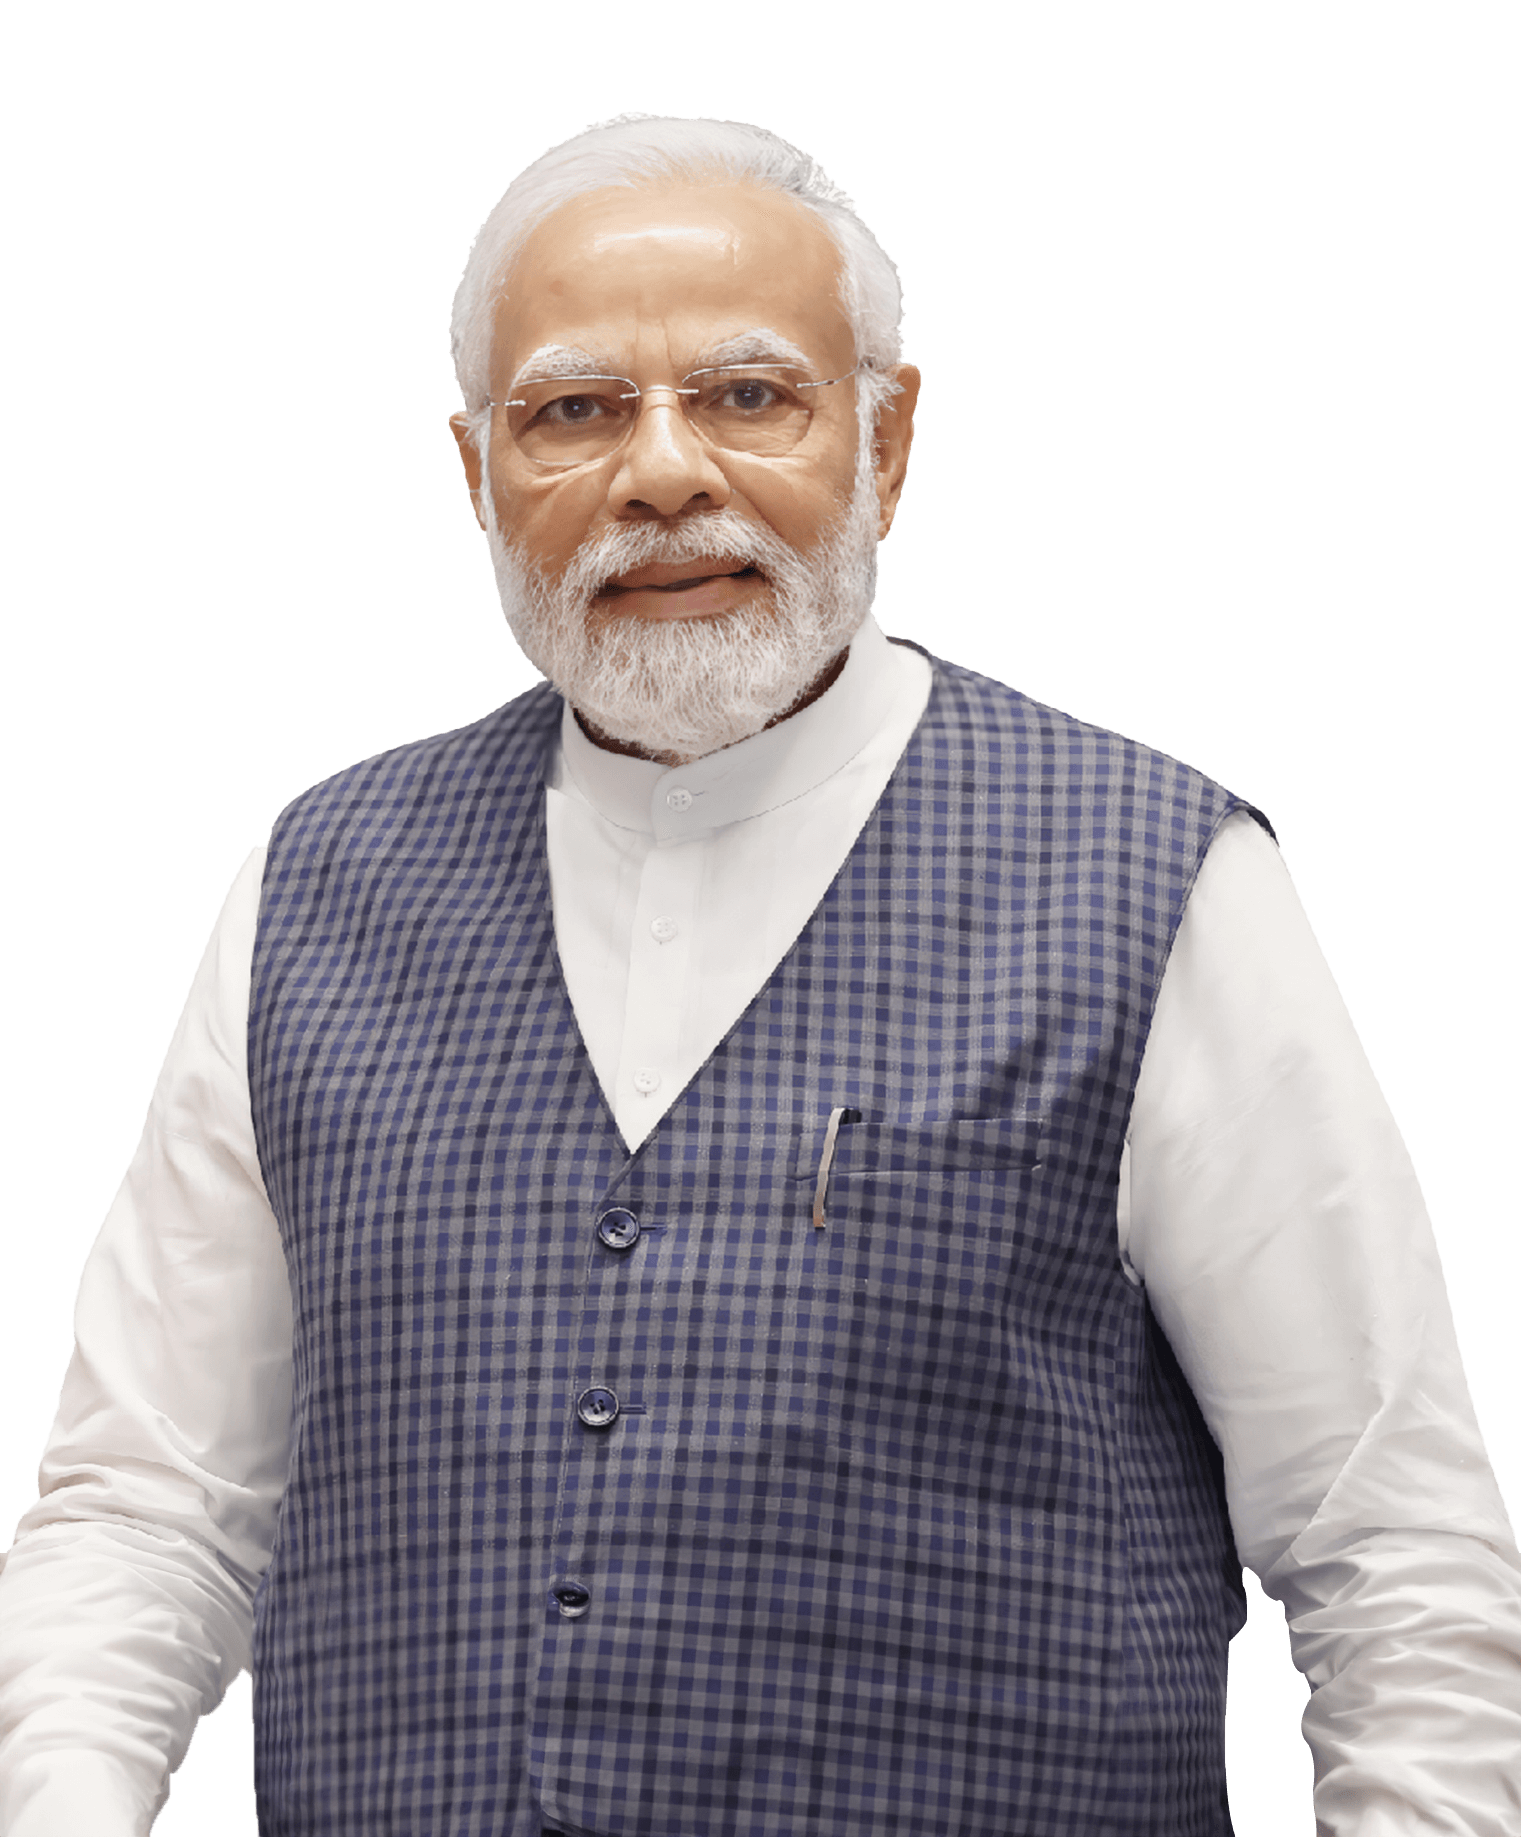
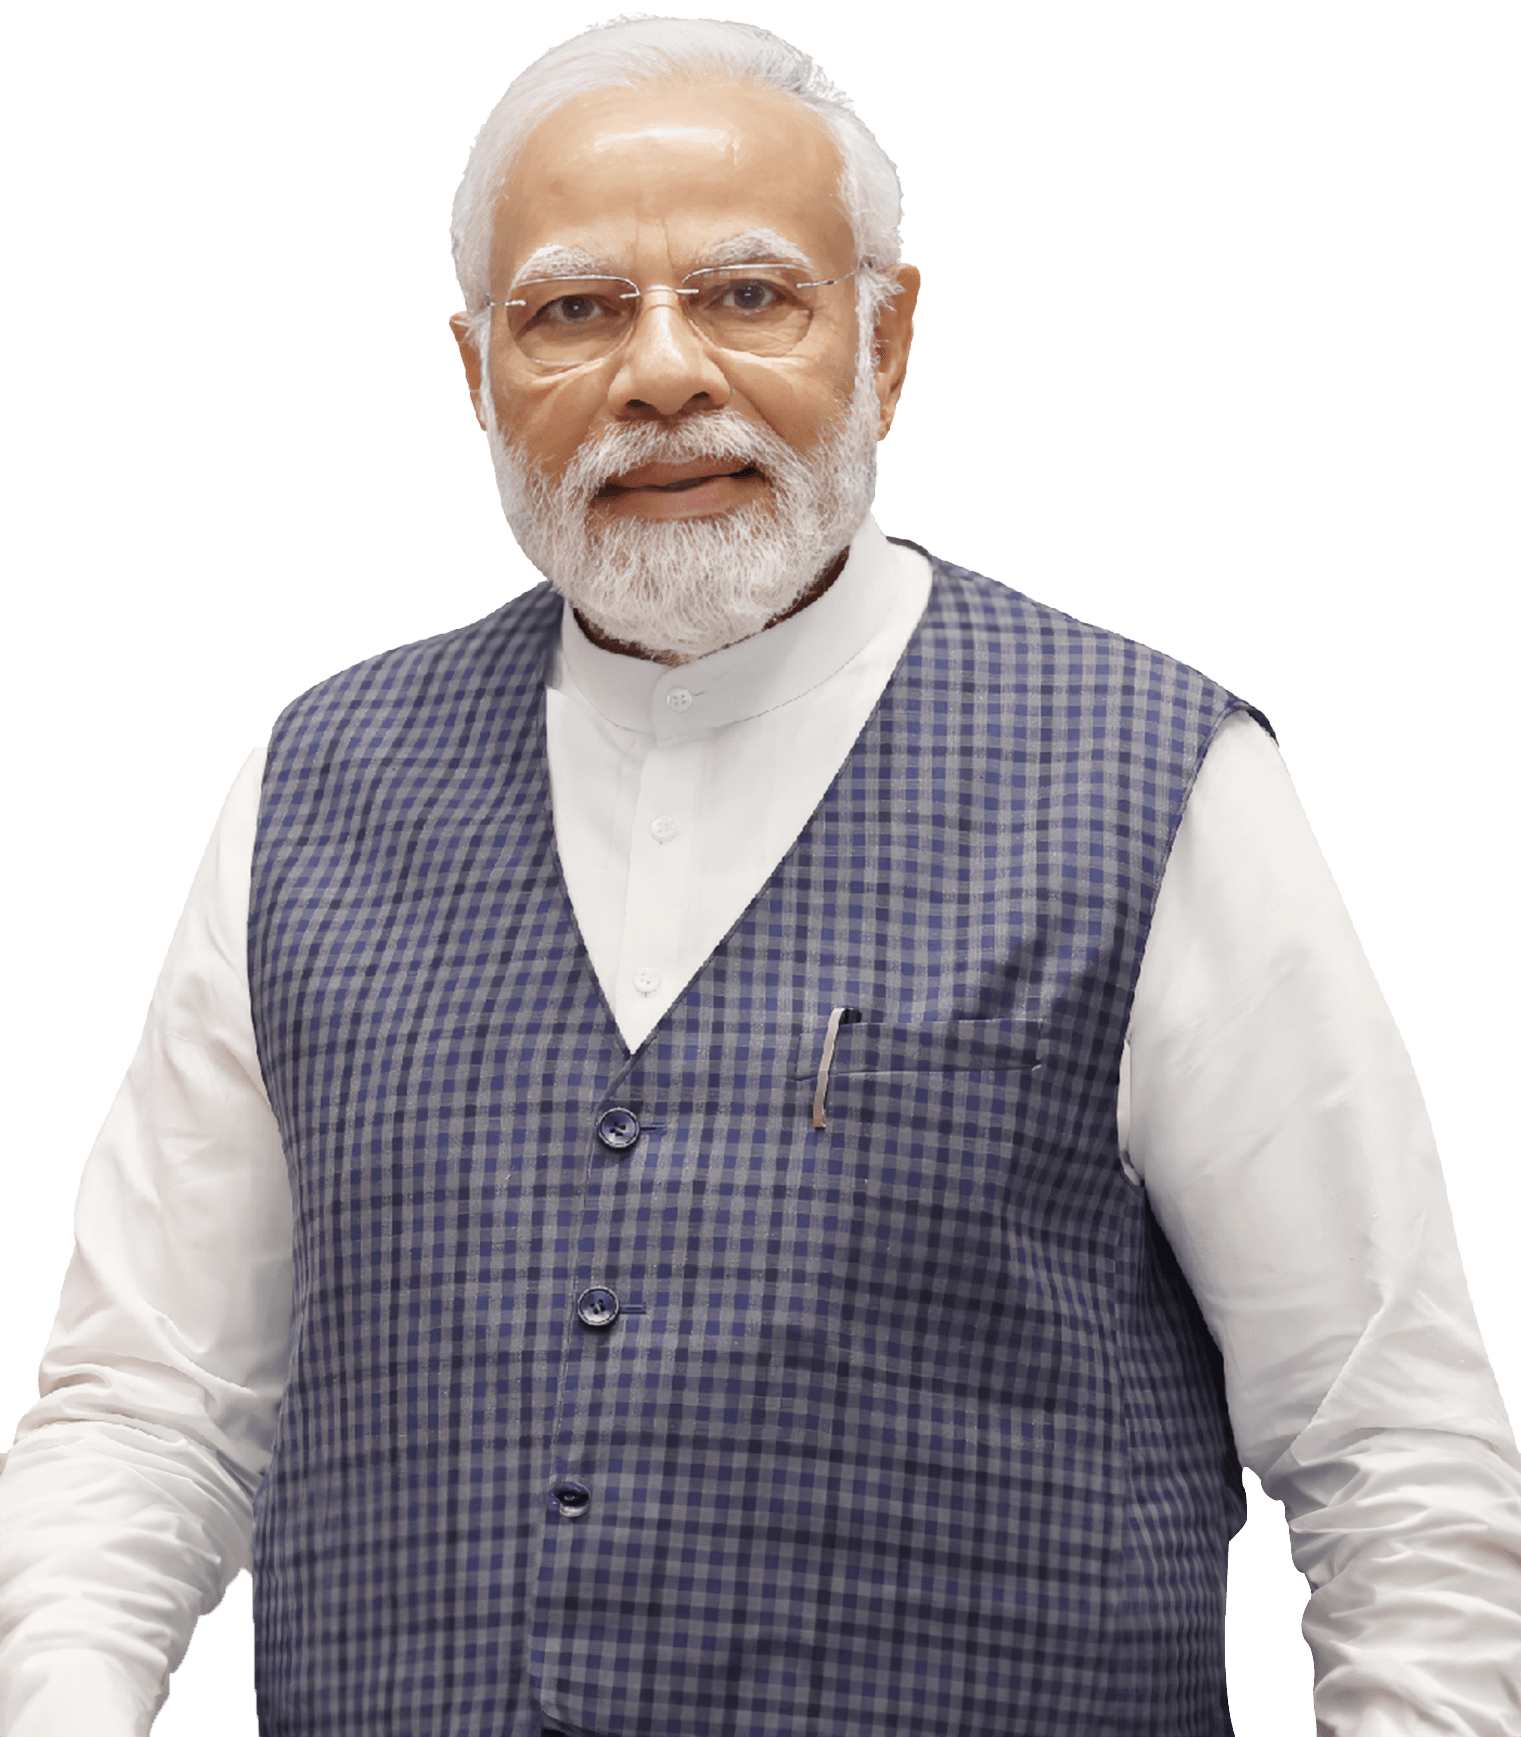
iec recommended changes on home page

Changed region(s): [[0.0, 0.0, 1.0, 0.9637], [0.927, 0.6218, 0.9579, 0.715], [0.8961, 0.5907, 0.927, 0.6218]]

diff --git a/src/pages/home/components/hero-banner/hero-banner.js b/src/pages/home/components/hero-banner/hero-banner.js
@@ -18,7 +18,7 @@ export function HeroBanner() {
     >
       <Container className={styles.bannerWrapper}>
         <Grid container spacing={3} direction={{ xs: 'column', sm: 'row' }}>
-          <Grid item xs={12} sm={3}>
+          <Grid item xs={12} sm={2.7} mt={13}>
             <img className={styles.bannerImage1} src={BannerImage1} alt="Hero Banner 1" />
           </Grid>
           <Grid item xs={12} sm={5.5} mt={10}>
@@ -37,8 +37,8 @@ export function HeroBanner() {
               )}
             </Typography>
           </Grid>
-          <Grid item xs={12} sm={0.1}></Grid>
-          <Grid item xs={12} sm={3.25}>
+          <Grid item xs={12} sm={0.3}></Grid>
+          <Grid item xs={12} sm={3.15} mt={3}>
             <img className={styles.bannerImage2} src={BannerImage2} alt="Hero Banner 2" />
           </Grid>
         </Grid>

diff --git a/src/pages/home/components/hero-banner/hero-banner.module.scss b/src/pages/home/components/hero-banner/hero-banner.module.scss
@@ -1,9 +1,7 @@
 .bannerImage1 {
   max-width: 100%;
-  height: 460px;
+  height: 300px;
 }
 .bannerImage2 {
   max-width: 100%;
-  height: 460px;
-  width: auto;
 }
